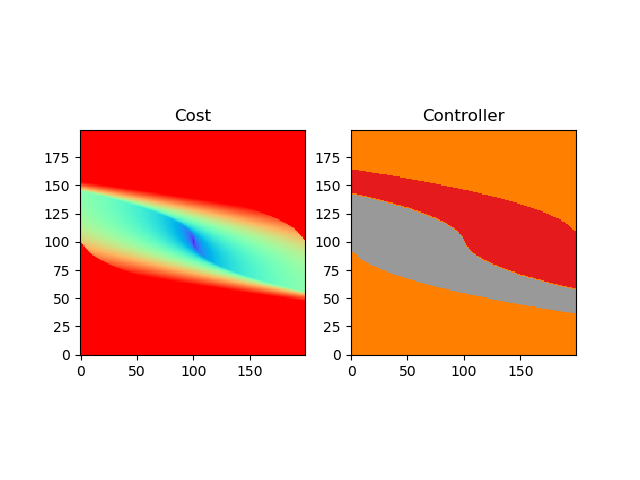
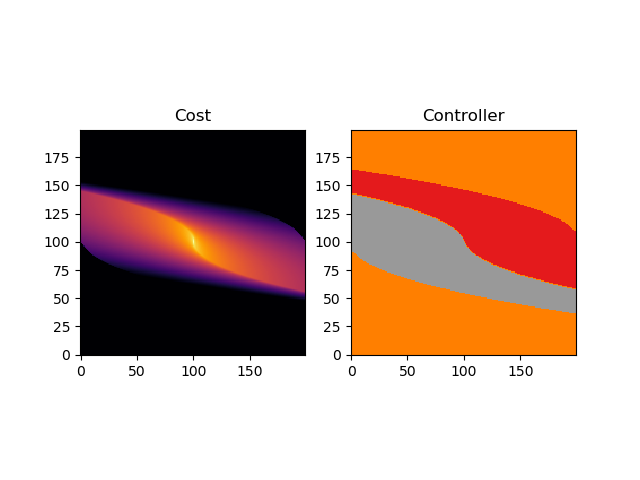
[New] Use inferno_r colormap to better show the center with low cost

Changed region(s): [[0.125, 0.25, 0.5, 0.75]]

diff --git a/ValueIteration.py b/ValueIteration.py
@@ -106,7 +106,7 @@ def runValueIteration():
 
     fig, (p1, p2) = plt.subplots(1, 2)
     p1.set_title("Cost")
-    cost_plot = p1.imshow(cost_grid.grid, cmap='rainbow', vmin = 0, vmax = 100, origin='lower')
+    cost_plot = p1.imshow(cost_grid.grid, cmap='inferno_r', vmin = 0, vmax = 100, origin='lower')
     p2.set_title("Controller")
     controller_plot = p2.imshow(controller_grid.grid, cmap='Set1', vmin = -1, vmax = 1, origin='lower', interpolation='nearest')
 
